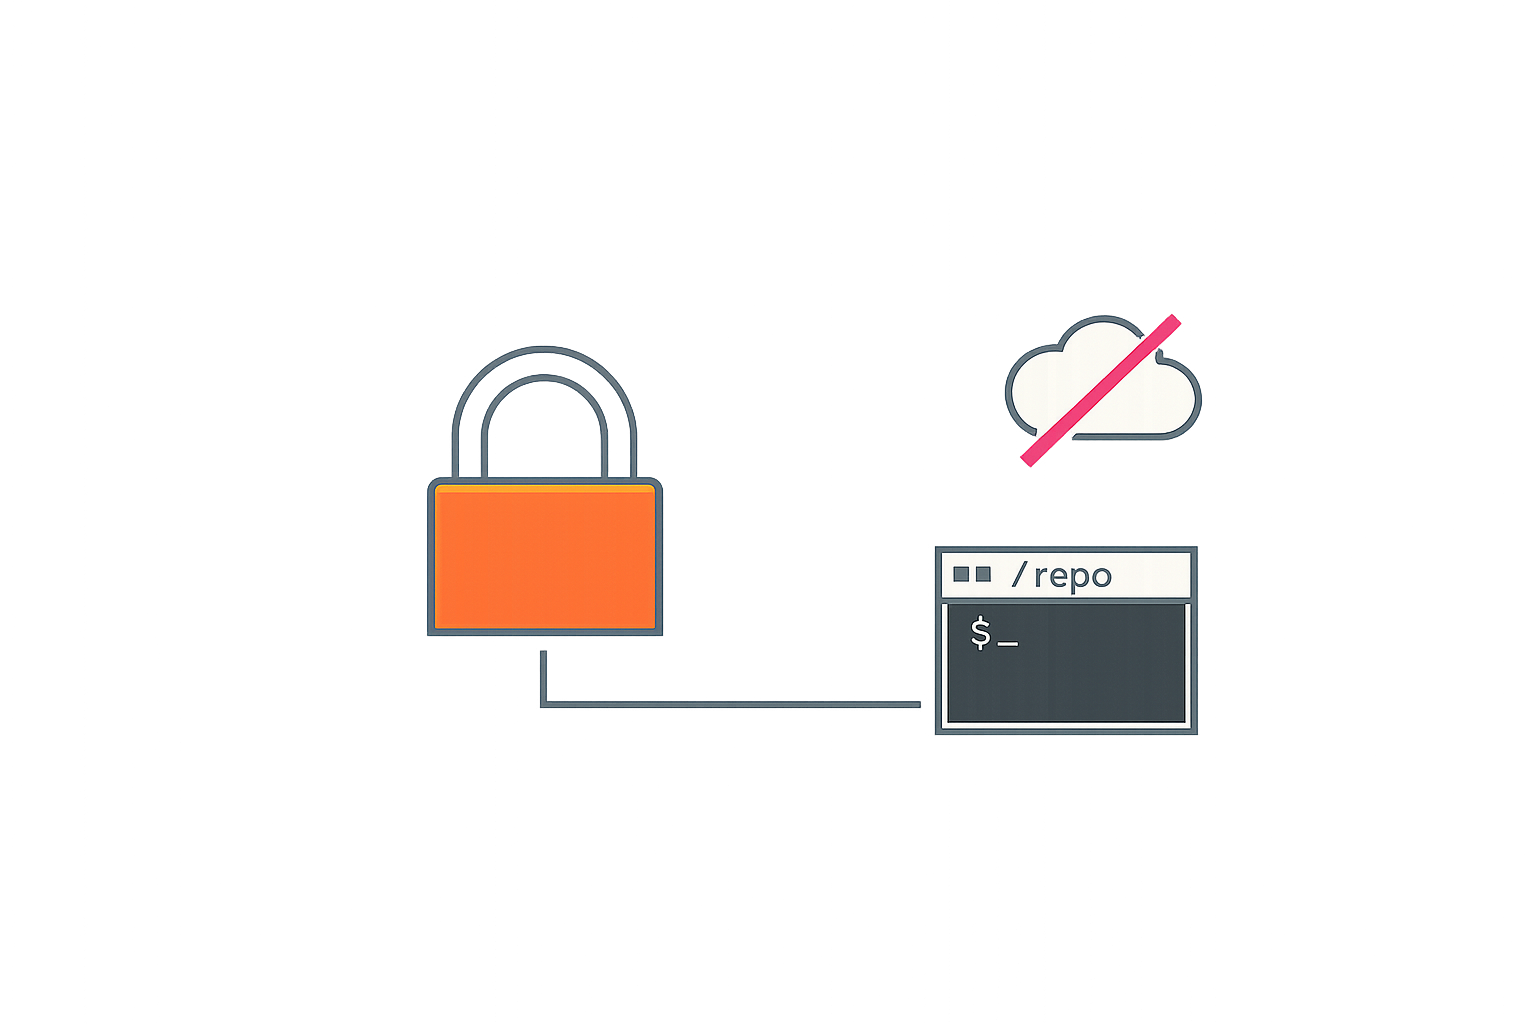
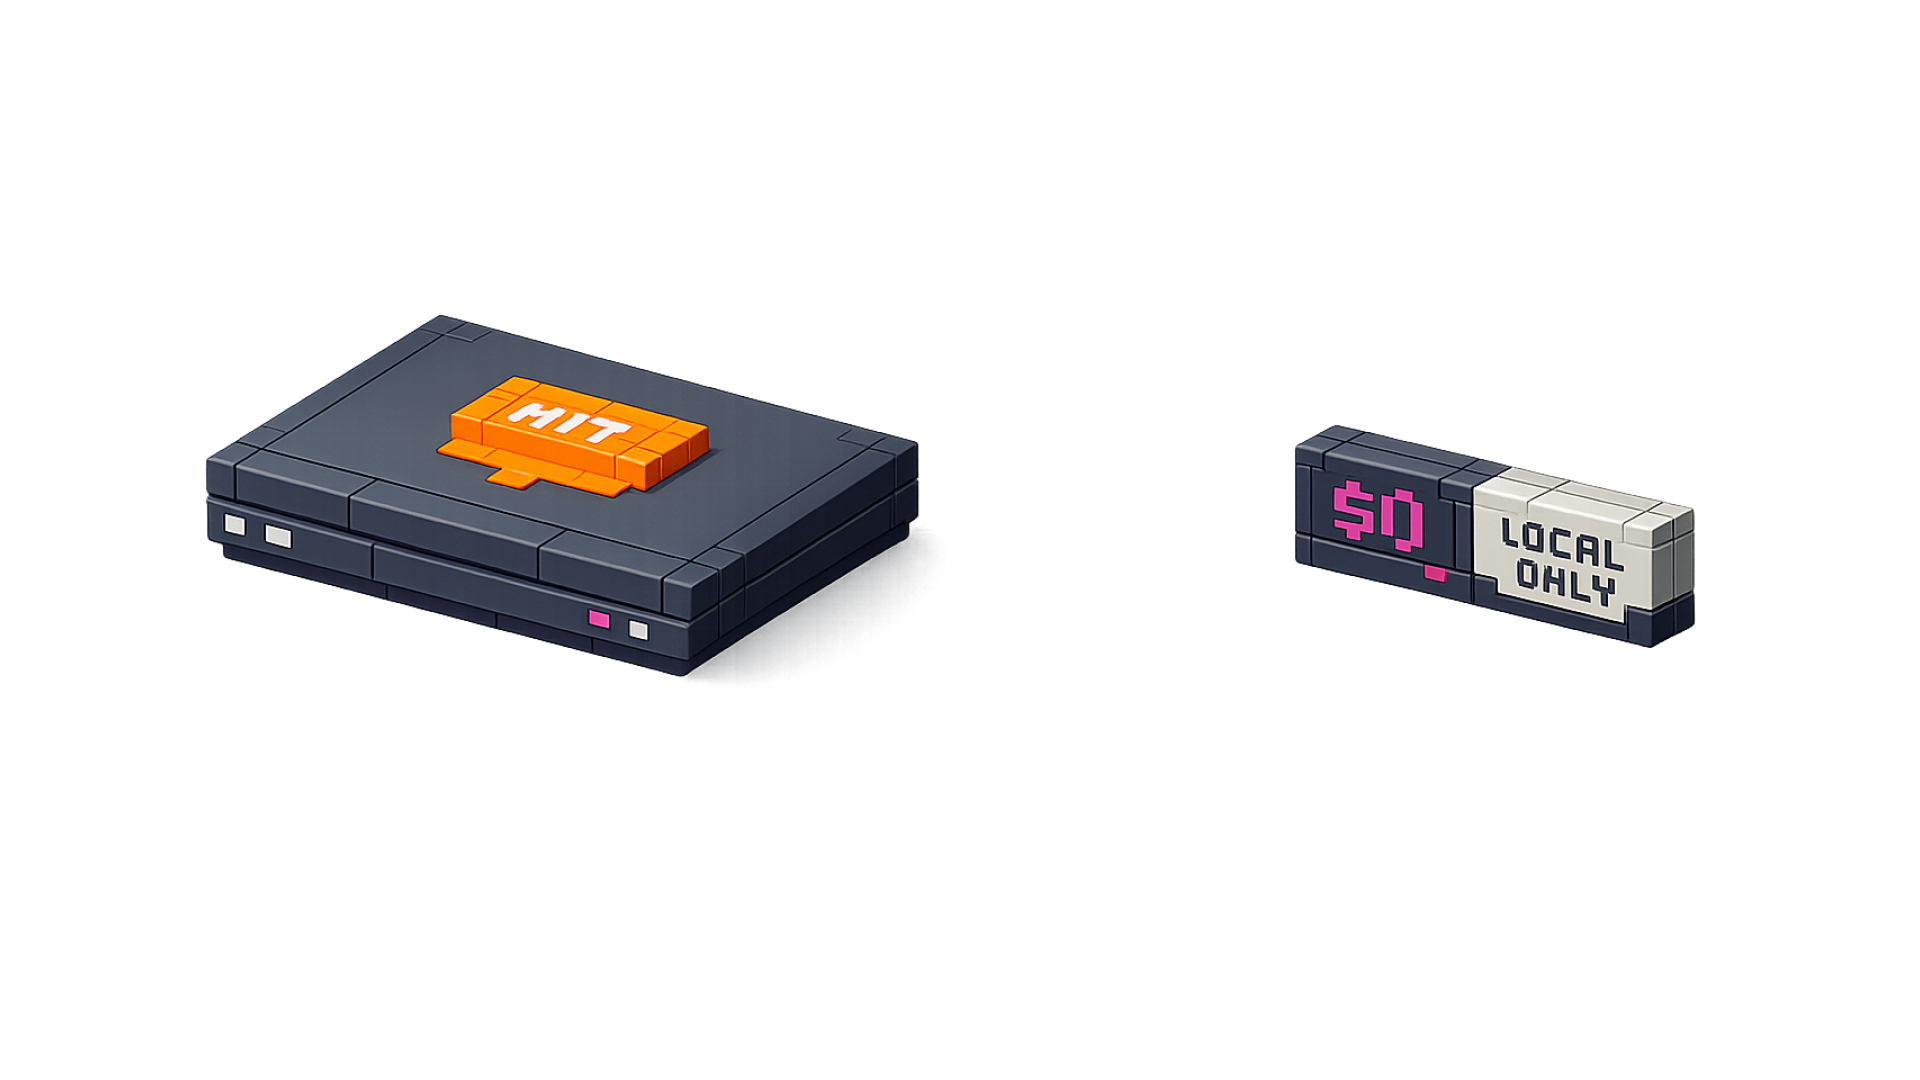
chore: update home images

Changed region(s): [[0.0938, 0.2812, 0.5, 0.6875], [0.375, 0.3125, 0.9062, 0.7188]]

diff --git a/apps/website/app/page.tsx b/apps/website/app/page.tsx
@@ -186,7 +186,7 @@ const FEATURES = [
 		num: "03",
 		title: "AGENT-READY",
 		body: "When the heuristic can't decide, the agent hands a small region tile to Claude Code, Cursor, or Codex for judgment. Resume from a checkpoint.",
-		illustration: "/agent-skill.png",
+		illustration: "/home-agent.png",
 	},
 ];
 

diff --git a/apps/website/components/landing/numbered-card.tsx b/apps/website/components/landing/numbered-card.tsx
@@ -27,7 +27,7 @@ export default function NumberedCard({
 				}`}
 			>
 				<div className="md:w-[33%] shrink-0">
-					<div className="relative aspect-[3/2] bg-surface border border-line overflow-hidden">
+					<div className="relative aspect-[16/9] bg-surface border border-line overflow-hidden">
 						<Image
 							src={illustration}
 							alt=""